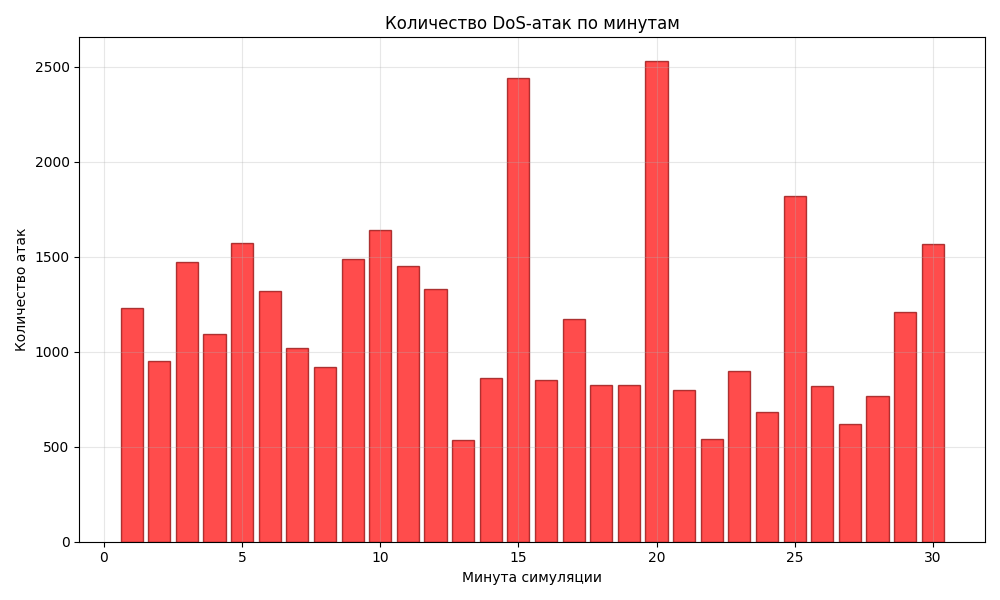
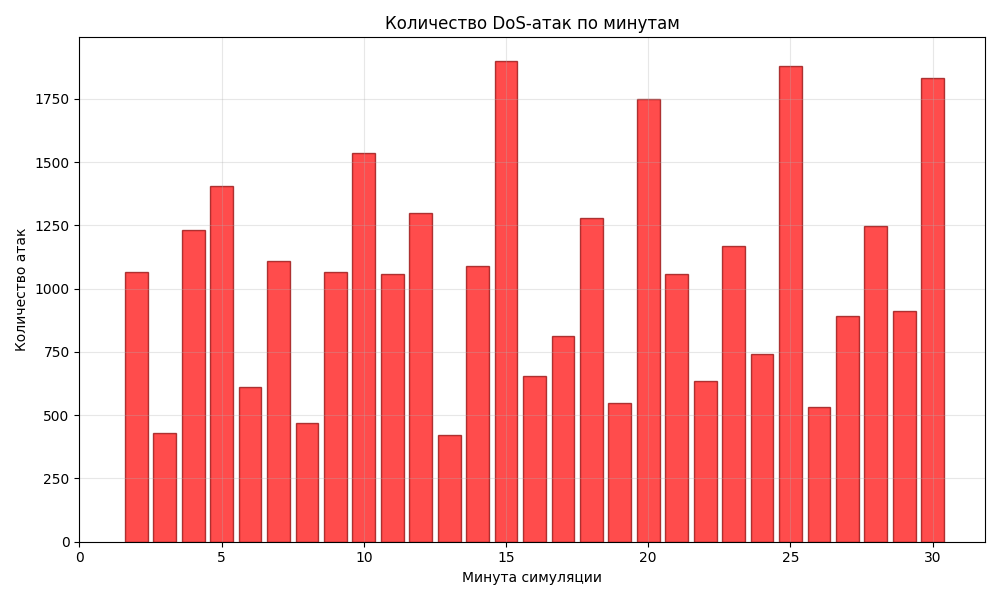
Fix interface errors and restore dashboard functionality
Update CSRF settings to allow requests from Replit proxy and revert root URL to serve the dashboard.

Replit-Commit-Author: Agent
Replit-Commit-Session-Id: ee685ab9-7a37-4f3d-a587-889a34d0e945
Replit-Commit-Checkpoint-Type: full_checkpoint
Replit-Commit-Event-Id: 2343c3c7-a01c-4b68-add9-9eacc7c8dab8
Replit-Commit-Screenshot-Url: https://storage.googleapis.com/screenshot-production-us-central1/dcf37a8d-6972-4b85-b297-c1678c4fa192/ee685ab9-7a37-4f3d-a587-889a34d0e945/Q5odrrt
Replit-Helium-Checkpoint-Created: true

diff --git a/django_project/settings.py b/django_project/settings.py
@@ -31,12 +31,16 @@ if "REPLIT_DOMAINS" in os.environ:
     ALLOWED_HOSTS += os.environ["REPLIT_DOMAINS"].split(',')
 
 # CSRF_TRUSTED_ORIGINS
+CSRF_TRUSTED_ORIGINS = [
+    'http://localhost',
+    'http://localhost:5000',
+    'http://127.0.0.1',
+    'http://127.0.0.1:5000',
+]
 if "REPLIT_DOMAINS" in os.environ:
-    CSRF_TRUSTED_ORIGINS = [
-        "https://" + domain for domain in os.environ["REPLIT_DOMAINS"].split(',')
-    ]
-else:
-    CSRF_TRUSTED_ORIGINS = ['http://localhost', 'http://127.0.0.1']
+    for domain in os.environ["REPLIT_DOMAINS"].split(','):
+        CSRF_TRUSTED_ORIGINS.append("https://" + domain)
+        CSRF_TRUSTED_ORIGINS.append("http://" + domain)
 
 # Application definition
 

diff --git a/django_project/urls.py b/django_project/urls.py
@@ -16,12 +16,10 @@ Including another URLconf
 """
 from django.contrib import admin
 from django.urls import path, include
-from django.views.generic import RedirectView
 from tasks import views
 
 urlpatterns = [
     path('admin/', admin.site.urls),
-    path('dashboard/', views.index, name='dashboard'),
-    path('', RedirectView.as_view(url='/admin/', permanent=False)),
+    path('', views.index, name='index'),
     path('metrics/', include('django_prometheus.urls')),
 ]
